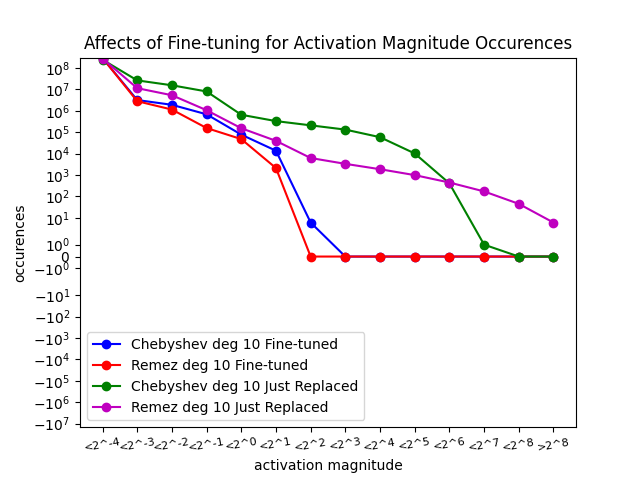
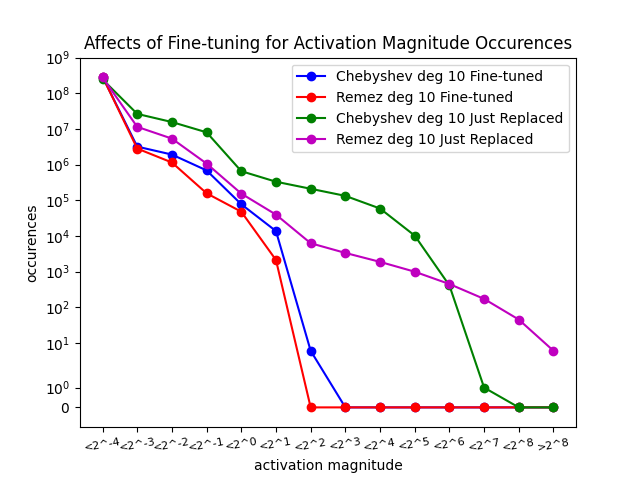
Edit typo in plot.py

diff --git a/plot.py b/plot.py
@@ -439,6 +439,7 @@ if __name__ == "__main__":
     ax.set_xticks(list(range(len(xticklabels))))
     ax.set_xticklabels(xticklabels, fontsize=8, rotation=10)
     ax.set_yscale("symlog")
+    ax.set_ybound(-1, 10 ** 9)
     ax.set_title("Fine-tuning Phase v.s. Just Switching into Approx")
     ax.set_title("Affects of Fine-tuning for Activation Magnitude Occurences")
     ax.set_xlabel("activation magnitude")
@@ -485,12 +486,13 @@ if __name__ == "__main__":
         file_name=os.path.join(
             args.log_dir, "simple_mnist_l1_act_tuned_remez_6_1e-3.json"
         ),
-        label="Remez Leaky L1(0.001) deg 6 (acc: 0.9811)",
+        label="Remez L1(0.001) deg 6 (acc: 0.9811)",
         color="mo-",
     )
     ax.set_xticks(list(range(len(xticklabels))))
     ax.set_xticklabels(xticklabels, fontsize=8, rotation=10)
     ax.set_yscale("symlog")
+    ax.set_ybound(-1, 10 ** 9)
     ax.set_title("Fine-tuning Phase v.s. Just Switching into Approx")
     ax.set_title("Activation Magnitude Occurences of Top Accuracies Configs")
     ax.set_xlabel("activation magnitude")
